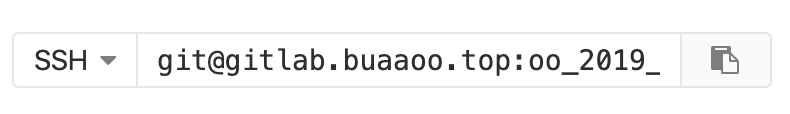
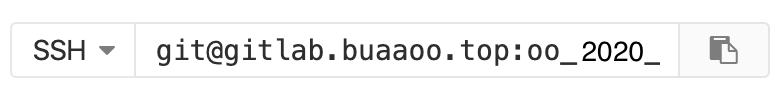
revise course platform guide

diff --git a/OO课程平台使用文档.md b/OO课程平台使用文档.md
@@ -1,12 +1,12 @@
 # OO课程平台使用文档
 
-此文档演示了使用OO课程平台完成实验的完整流程以及使用的注意事项。为保证实验课的顺利进行，请同学们及时阅读并了解。
+此文档演示了使用[OO课程平台](https://course.buaaoo.top/)完成实验的完整流程以及使用的注意事项。为保证实验课的顺利进行，请同学们及时阅读并了解。
 
 ## 代码的提交
 
-再实验开始之前，建议提前配置好SSH以节省时间，SSH的配置已在相关文档中进行了说明。
+在实验开始之前，建议提前配置好SSH以节省时间，SSH的配置已在[相关文档](https://github.com/Ailsa99/guide_book_public/blob/master/git-guide/git风格指南.md)中进行了说明。
 
-登陆课程的GitLab，找到本次实验对应的仓库，并复制本仓库对应的SSH URL地址，如下图所示：
+登录课程的GitLab，找到本次实验对应的仓库，并复制本仓库对应的SSH URL地址，如下图所示：
 
 <img src="pic/0.png" alt="0" style="zoom:50%;" />
 
@@ -16,7 +16,7 @@
 
 ```
 git init
-git remote add origin git@gitlab.buaaoo.top:oo_2019_homeworks/xxxx.git 
+git remote add origin git@gitlab.buaaoo.top:oo_2020_homeworks/xxxx.git 
 ```
 
 然后在此工作目录中完成你的代码，当代码完成后，将其push到仓库中：
@@ -27,7 +27,7 @@ git commit -m "message"
 git push -u origin master
 ```
 
-然后，登陆OO课程平台，在对应的实验的最下方作答区域中，点击“要提交的commit”，从下拉列表中选择要提交的commit，
+然后，登录OO课程平台，在对应的实验的最下方作答区域中，点击“要提交的commit”，从下拉列表中选择要提交的commit，
 
 <img src="pic/1.png" alt="1" style="zoom:50%;" />
 

diff --git a/README.md b/README.md
@@ -38,6 +38,7 @@ oo课程规则文档
  - 2020-2.9 10:50 针对2020年规则变化更新
  - 2020-2-10 17.01 增加关于规范代码风格和git使用的指导教程
  - 2020-2-22 23:36 增加课程平台使用文档以及对以往文档部分内容进行修订
+ - 2020-2-23 10:36 对课程平台使用文档进行修订
 
 ## 公告
  - 关于规则的讨论请在课程讨论区进行讨论，本仓库只是作为一个公共的规则文档仓库。
